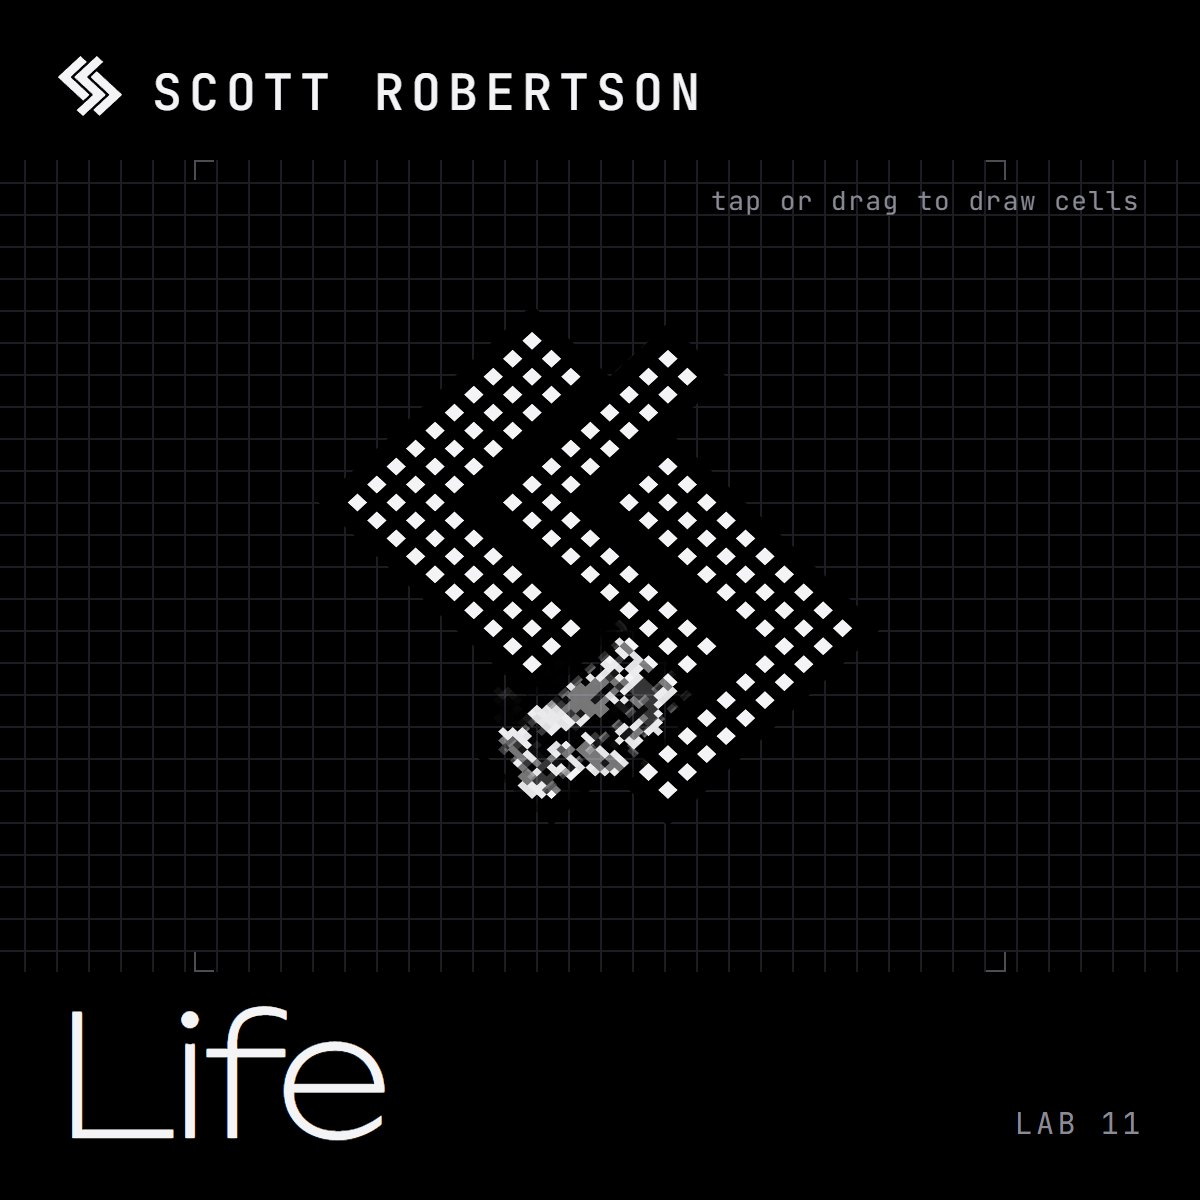
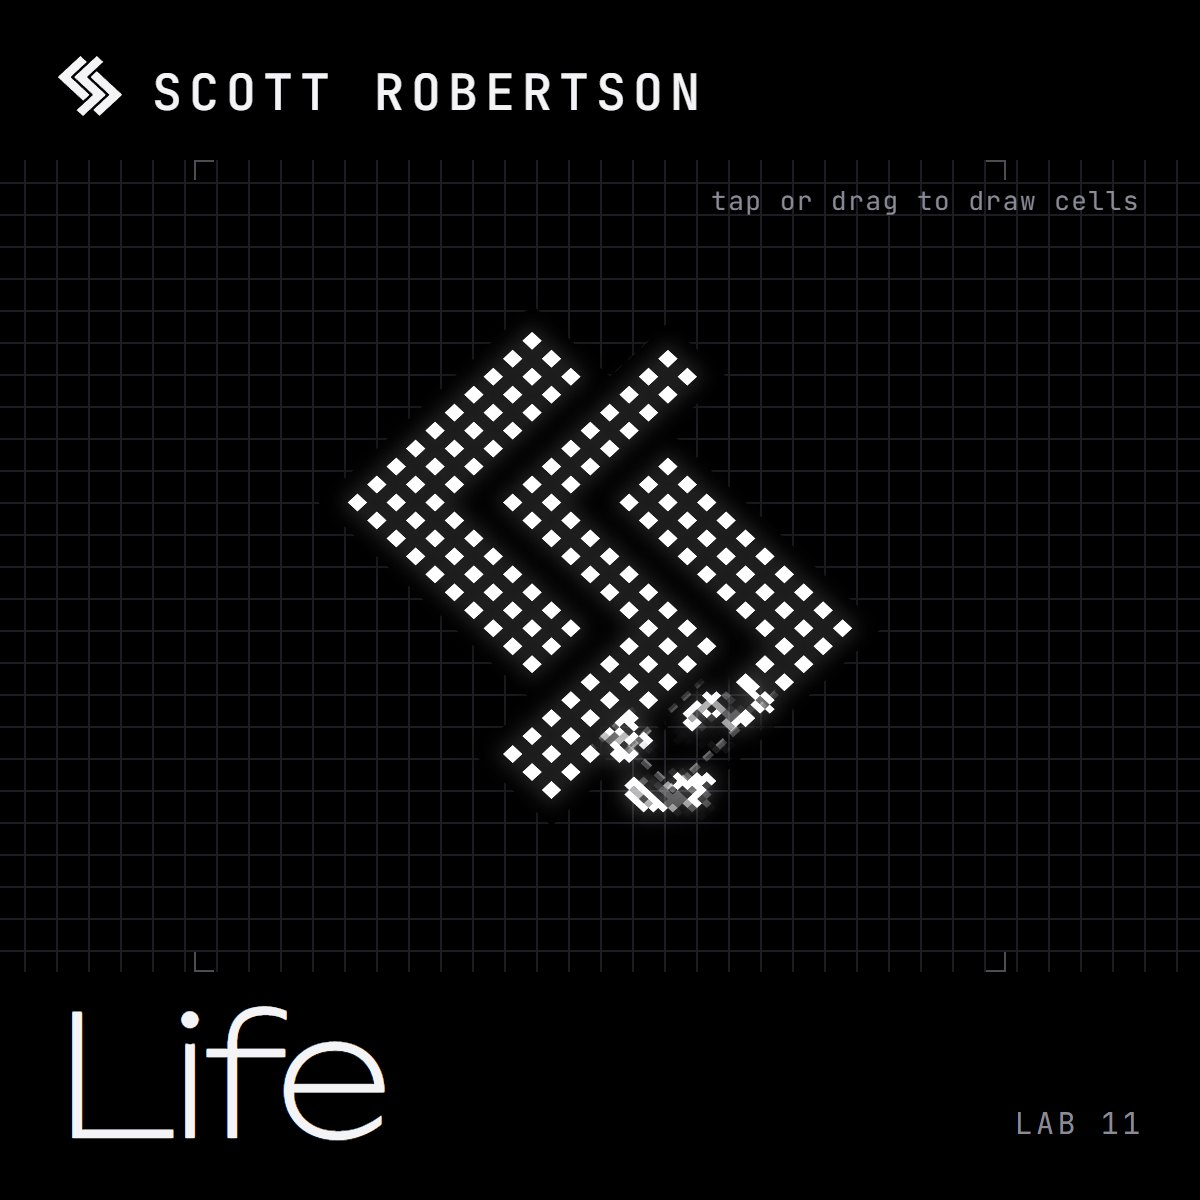
Share cards: Radiant and Life re-rendered after their control changes

Changed region(s): [[0.2775, 0.2775, 0.7092, 0.6783]]

diff --git a/lab/life/index.html b/lab/life/index.html
@@ -13,7 +13,7 @@
 <meta property="og:title" content="Life · Scott Robertson">
 <meta property="og:description" content="The mark, built as a still life in Conway’s Game of Life. One glider is enough to unravel it, and when the chaos burns out, it rebuilds.">
 <meta property="og:url" content="https://sc0ttr0berts0n.github.io/personal-site-2026/lab/life/">
-<meta property="og:image" content="https://sc0ttr0berts0n.github.io/personal-site-2026/share/life.jpg?v=cddb6594">
+<meta property="og:image" content="https://sc0ttr0berts0n.github.io/personal-site-2026/share/life.jpg?v=9d3e2460">
 <meta property="og:image:width" content="1200">
 <meta property="og:image:height" content="1200">
 <meta property="og:image:alt" content="Life, lab 11 by Scott Robertson">

diff --git a/lab/godrays/index.html b/lab/godrays/index.html
@@ -13,7 +13,7 @@
 <meta property="og:title" content="Radiant · Scott Robertson">
 <meta property="og:description" content="A lamp glows behind the mark in a hazy room and carves out light shafts as the light shines through.">
 <meta property="og:url" content="https://sc0ttr0berts0n.github.io/personal-site-2026/lab/godrays/">
-<meta property="og:image" content="https://sc0ttr0berts0n.github.io/personal-site-2026/share/godrays.jpg?v=92851d70">
+<meta property="og:image" content="https://sc0ttr0berts0n.github.io/personal-site-2026/share/godrays.jpg?v=0d2327be">
 <meta property="og:image:width" content="1200">
 <meta property="og:image:height" content="1200">
 <meta property="og:image:alt" content="Radiant, lab 06 by Scott Robertson">
